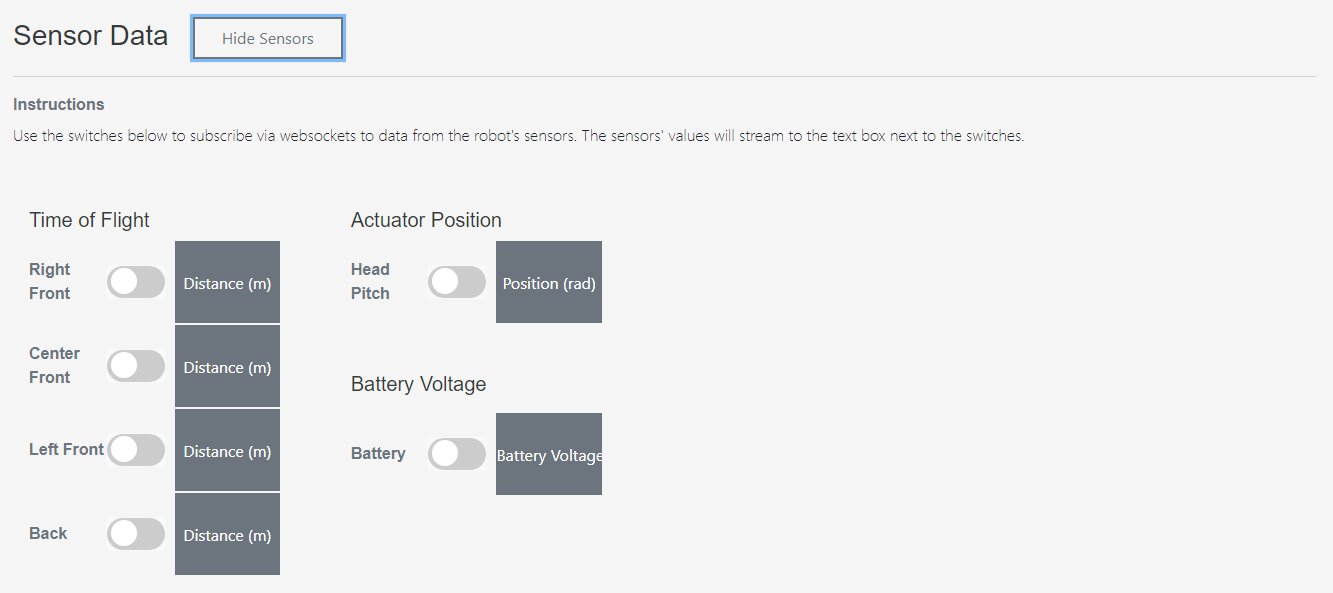
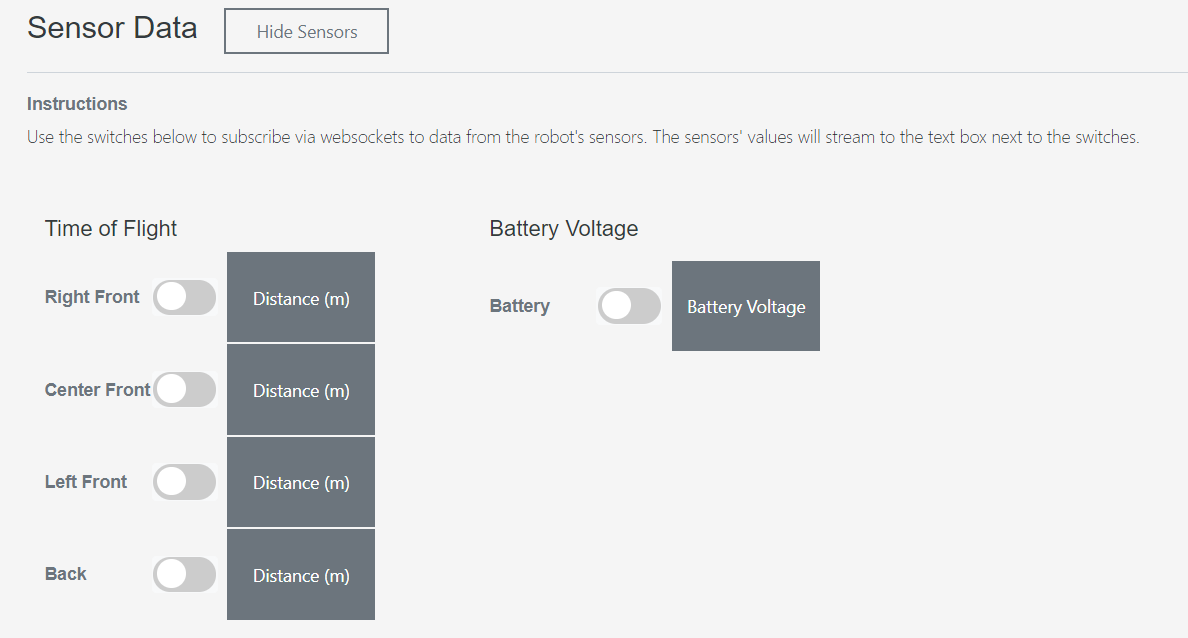
Corrected Explorer image and text
No actuator sensor in Misty I.

diff --git a/src/content/onboarding/3-ways-to-interact-with-misty/api-explorer.md b/src/content/onboarding/3-ways-to-interact-with-misty/api-explorer.md
@@ -129,13 +129,6 @@ You can view a stream of distance data from Misty I's four time-of-flight sensor
 3. You can see data from Misty's battery sensor in the **Battery Voltage** field.
 
 
-### Subscribing to Head Position Actuator data
-
-1. In the **Sensor Data** area, find the **Actuator Position** controls.
-2. Toggle the **Head Pitch** switch on.
-3. You can see data from the actuator sensor in the **Position (radians)** field.
-
-
 ### Subscribing to Other WebSocket data
 
 1. Find the **Other WebSockets** controls in the API Explorer. ![Other Websockets](../../../assets/images/other_websockets.png)
